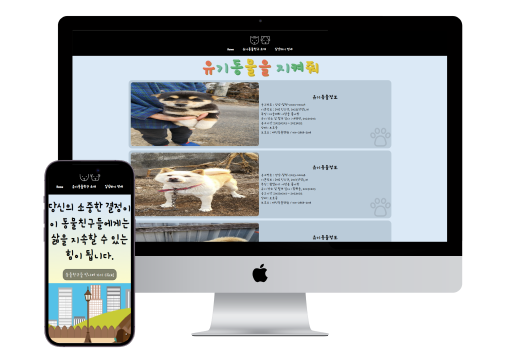
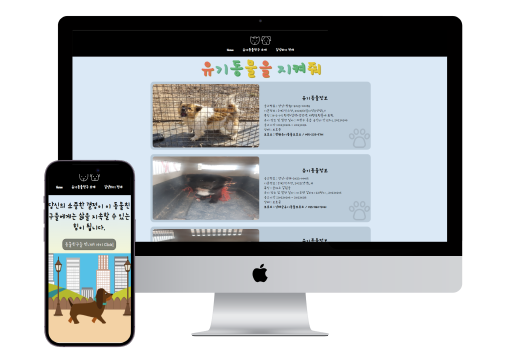
일부 그림 수정

Changed region(s): [[0.0923, 0.0938, 0.8615, 1.0]]

diff --git a/index.html b/index.html
@@ -88,8 +88,8 @@
                         <p class="p3">언어 : html,css,javascript, node.js, splite3, cookies</p>
                         <p class="p3">주요특징 : 모바일 앱, 회원가입,변경, 탈퇴 설정, 장바구니 담기등</p>
                         <div class="button">
-                            <a href="#">사이트 바로가기</a>
-                            <a href="#">깃허브 바로가기</a>
+                            <a href="https://port-0-node-ejs-gilmaro-19k5ygi525lcsucitd.gksl2.cloudtype.app/">사이트 바로가기</a>
+                            <a href="https://github.com/baboda212/node-ejs-gilmaro.git">깃허브 바로가기</a>
                         </div>
                     </div>
                     <div class="projectImg">
@@ -103,8 +103,8 @@
                         <p class="p3">언어 : html,css,javascript</p>
                         <p class="p3">주요특징 : 반응형 웹페이지 제작, 낙후된 기존 홈페이지의 계열사와의 비슷한 구조로 리뉴얼</p>
                         <div class="button">
-                            <a href="#">사이트 바로가기</a>
-                            <a href="#">깃허브 바로가기</a>
+                            <a href="https://baboda212.github.io/koreaairport/">사이트 바로가기</a>
+                            <a href="https://github.com/baboda212/koreaairport.git">깃허브 바로가기</a>
                         </div>
                     </div>
                     <div class="projectImg">
@@ -118,12 +118,12 @@
                         <p class="p3">언어 : html,css,javascript, react</p>
                         <p class="p3">주요특징 : 공공 데이터 API를 활용하여 유기동물들에 대한 정보를 제공하고 입양할 수 있도록 구현</p>
                         <div class="button">
-                            <a href="#">사이트 바로가기</a>
-                            <a href="#">깃허브 바로가기</a>
+                            <a href="https://web-findanimal-api-1b5xkk2fldo4kz3a.gksl2.cloudtype.app/">사이트 바로가기</a>
+                            <a href="https://github.com/baboda212/findanimal-api.git">깃허브 바로가기</a>
                         </div>
                     </div>
                     <div class="projectImg">
-                        <img src="/images/Rectangle 588-1.png" alt="유기동물을지켜줘">
+                        <img src="/images/Rectangle 590.png" alt="유기동물을지켜줘">
                     </div>
                 </div><!-- project3 -->
                 <div class="project">
@@ -133,12 +133,12 @@
                         <p class="p3">언어 : html,css,javascript, node.js, splite3</p>
                         <p class="p3">주요특징 : splite3를 활용하여 댓글을 입력하고 표현하는 모바일 앱 구현</p>
                         <div class="button">
-                            <a href="#">사이트 바로가기</a>
-                            <a href="#">깃허브 바로가기</a>
+                            <a href="https://port-0-newyear-3sojxk2ilbz4yvk0.gksl2.cloudtype.app/">사이트 바로가기</a>
+                            <a href="https://github.com/baboda212/newyear.git">깃허브 바로가기</a>
                         </div>
                     </div>
                     <div class="projectImg">
-                        <img src="/images/Rectangle 590.png" alt="신년연하장">
+                        <img src="/images/Rectangle 588-1.png" alt="신년연하장">
                     </div>
                 </div><!-- project4 -->
             </section><!-- works -->
@@ -170,6 +170,11 @@
                     <img src="/images/mdi_alternate-email.svg" alt="이메일">
                     <img src="/images/iconoir_github-circle.svg" alt="깃허브">
                 </div>
+                <div class='footer'>
+                    <p class="footer__copyright">
+                        &copy; 2023 KIM SUNMIN All Rights Reserved
+                    </p>
+                </div>
             </footer>
 
             <!-- up btn -->
@@ -187,7 +192,6 @@
     <!-- 폰트어썸 -->
     <script
       src="https://kit.fontawesome.com/67eff22c15.js"
-      crossorigin="anonymous"
-    ></script>
+      crossorigin="anonymous"></script>
 </body>
 </html>

diff --git a/style.css b/style.css
@@ -530,6 +530,8 @@ footer{
     width: 100%;
     height: 83px;
     background-color: rgba(97, 191, 174, 0.3);
+    display: flex;
+    flex-direction: column;
 }
 footer .sns{
     height: 100%;
@@ -542,6 +544,11 @@ footer .sns img{
 }
 footer .sns img:last-child{
     margin-right: 0;
+}
+footer .footer__copyright{
+    text-align: center;
+    font-size: 12px;
+    color: rgba(22, 124, 128, 0.5);
 }
 
 /* ----------upbtn---------- */
